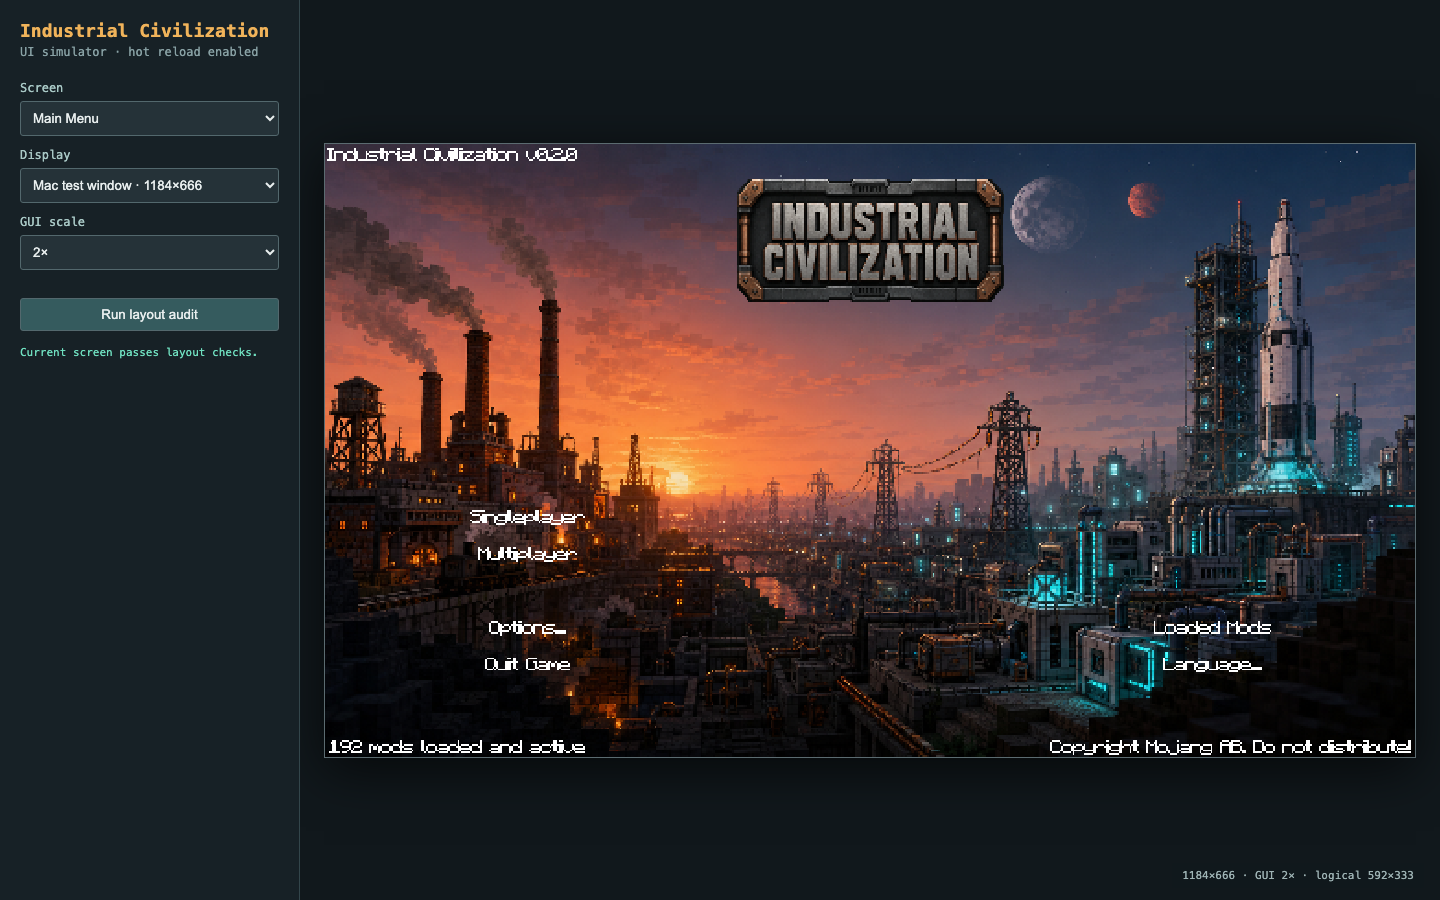
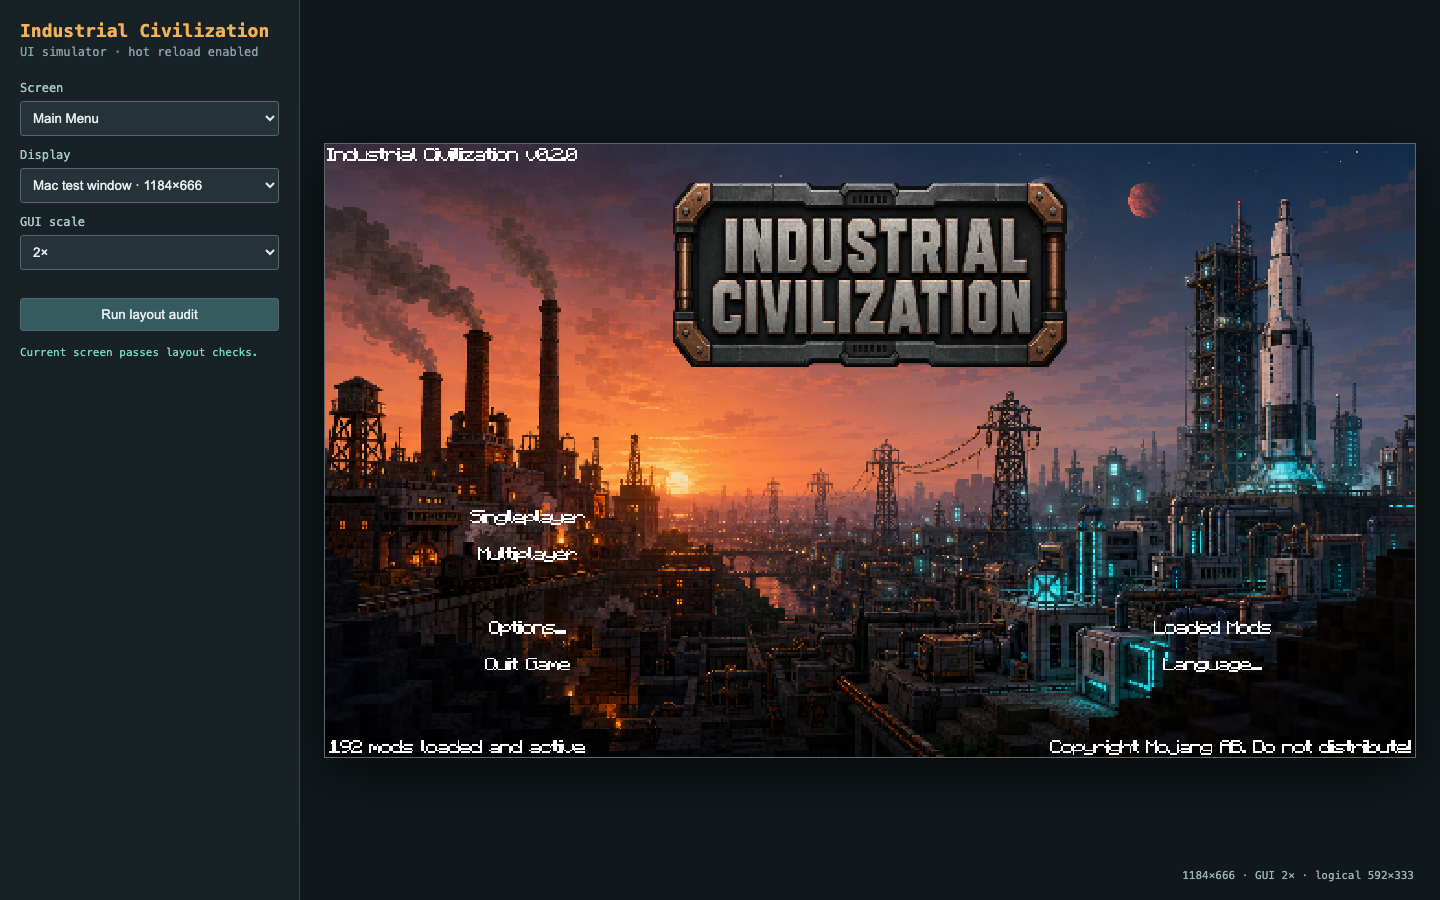
Scale title cards responsively

Changed region(s): [[0.4688, 0.1867, 0.75, 0.4356]]

diff --git a/tools/ui_simulator/app.js b/tools/ui_simulator/app.js
@@ -170,8 +170,23 @@ function anchoredBox(d, entry) {
   return {x, y, w: entry.width || 0, h: entry.height || 0};
 }
 
+function mainMenuTitleWidth(d) {
+  const proportional = Math.round(Math.max(0, d.width) * 0.40);
+  const widthLimit = Math.max(160, d.width - 32);
+  const heightLimit = Math.max(160, Math.max(80, d.height - 160) * 2);
+  return Math.max(160, Math.min(proportional, widthLimit, heightLimit));
+}
+
+function questHomeTitleWidth(backdrop) {
+  const proportional = Math.floor(Math.max(0, backdrop.w) * 0.65);
+  const widthLimit = Math.max(256, backdrop.w - 16);
+  const heightLimit = Math.max(256, Math.max(128, backdrop.h - 16) * 2);
+  return Math.max(256, Math.min(proportional, widthLimit, heightLimit));
+}
+
 function mainMenuLayout(d, auditScreen = "mainmenu") {
-  const title = anchoredBox(d, data.mainMenu.images.title);
+  const titleWidth = mainMenuTitleWidth(d);
+  const title = {x: (d.width - titleWidth) / 2, y: 14, w: titleWidth, h: titleWidth / 2};
   const versionLabel = data.mainMenu.labels.industrialcivilization;
   const version = {x: versionLabel.posX || 0, y: versionLabel.posY || 0,
     w: textWidth(versionLabel.text), h: 8};
@@ -252,9 +267,9 @@ function questHomeLayout(d, auditScreen = "questhome") {
   const content = {x: panel.x + 8, y: panel.y + 8, w: panel.w - 16, h: panel.h - 16};
   const buttonHeight = 32;
   const backdrop = {x: content.x, y: content.y, w: content.w, h: content.h - buttonHeight};
-  const settings = data.questHome || {anchorX: .5, anchorY: 0, offsetX: -128, offsetY: 0};
-  const title = {x: backdrop.x + backdrop.w * settings.anchorX + settings.offsetX,
-    y: backdrop.y + backdrop.h * settings.anchorY + settings.offsetY, w: 256, h: 128};
+  const titleWidth = questHomeTitleWidth(backdrop);
+  const title = {x: backdrop.x + (backdrop.w - titleWidth) / 2,
+    y: backdrop.y + (backdrop.h - titleWidth / 2) / 2, w: titleWidth, h: titleWidth / 2};
   if (!contained(backdrop, panel)) issue(auditScreen, "Better Questing home backdrop clips its panel", backdrop);
   if (!contained(title, backdrop)) issue(auditScreen, "Better Questing anchored title clips its backdrop", title);
   return {panel, content, backdrop, title, buttonHeight};

diff --git a/development/IndustrialCivilizationCore/src/main/java/com/industrialcivilization/core/IndustrialCivilizationCore.java b/development/IndustrialCivilizationCore/src/main/java/com/industrialcivilization/core/IndustrialCivilizationCore.java
@@ -4,6 +4,10 @@ import betterquesting.api.properties.NativeProps;
 import betterquesting.api.questing.IQuestLine;
 import betterquesting.client.gui2.GuiHome;
 import betterquesting.client.gui2.GuiQuestLines;
+import betterquesting.api2.client.gui.misc.GuiTransform;
+import betterquesting.api2.client.gui.panels.CanvasTextured;
+import betterquesting.api2.client.gui.panels.IGuiCanvas;
+import betterquesting.api2.client.gui.panels.IGuiPanel;
 import betterquesting.api2.client.gui.panels.lists.CanvasQuestLine;
 import betterquesting.handlers.SaveLoadHandler;
 import betterquesting.questing.QuestLineDatabase;
@@ -13,11 +17,14 @@ import net.minecraft.block.material.Material;
 import net.minecraft.init.Blocks;
 import net.minecraft.init.Items;
 import net.minecraft.client.Minecraft;
+import net.minecraft.client.gui.Gui;
 import net.minecraft.client.gui.GuiIngameMenu;
 import net.minecraft.client.gui.GuiButton;
+import net.minecraft.client.gui.GuiMainMenu;
 import net.minecraft.client.gui.advancements.GuiAdvancementTab;
 import net.minecraft.client.gui.advancements.GuiScreenAdvancements;
 import net.minecraft.client.resources.I18n;
+import net.minecraft.client.renderer.GlStateManager;
 import net.minecraft.client.renderer.block.model.ModelResourceLocation;
 import net.minecraft.client.settings.KeyBinding;
 import net.minecraft.creativetab.CreativeTabs;
@@ -91,8 +98,9 @@ public final class IndustrialCivilizationCore {
     @Mod.Instance(MODID)
     public static IndustrialCivilizationCore INSTANCE;
     public static final String QUEST_HOME_IMAGE = MODID + ":textures/gui/quest_home_v2.png";
+    public static final float QUEST_HOME_ANCHOR_Y = 0.5F;
     public static final int QUEST_HOME_OFFSET_X = -128;
-    public static final int QUEST_HOME_OFFSET_Y = 0;
+    public static final int QUEST_HOME_OFFSET_Y = -64;
     public static Logger LOGGER;
     public static final CreativeTabs CREATIVE_TAB = new CreativeTabs(MODID) {
         @Override
@@ -333,11 +341,16 @@ public final class IndustrialCivilizationCore {
 
         private static void migrateQuestHomeImage() {
             String current = QuestSettings.INSTANCE.getProperty(NativeProps.HOME_IMAGE);
+            float currentAnchorY = QuestSettings.INSTANCE.getProperty(NativeProps.HOME_ANC_Y);
             int currentOffsetX = QuestSettings.INSTANCE.getProperty(NativeProps.HOME_OFF_X);
             int currentOffsetY = QuestSettings.INSTANCE.getProperty(NativeProps.HOME_OFF_Y);
             boolean changed = false;
             if (!QUEST_HOME_IMAGE.equals(current)) {
                 QuestSettings.INSTANCE.setProperty(NativeProps.HOME_IMAGE, QUEST_HOME_IMAGE);
+                changed = true;
+            }
+            if (Float.compare(currentAnchorY, QUEST_HOME_ANCHOR_Y) != 0) {
+                QuestSettings.INSTANCE.setProperty(NativeProps.HOME_ANC_Y, QUEST_HOME_ANCHOR_Y);
                 changed = true;
             }
             if (currentOffsetX != QUEST_HOME_OFFSET_X) {
@@ -350,9 +363,9 @@ public final class IndustrialCivilizationCore {
             }
             if (changed) {
                 SaveLoadHandler.INSTANCE.markDirty();
-                LOGGER.info("Migrated Better Questing home layout from '{}',({}, {}) to '{}',({}, {})",
-                    current, currentOffsetX, currentOffsetY,
-                    QUEST_HOME_IMAGE, QUEST_HOME_OFFSET_X, QUEST_HOME_OFFSET_Y);
+                LOGGER.info("Migrated Better Questing home layout from '{}',({}, {}, {}) to '{}',({}, {}, {})",
+                    current, currentAnchorY, currentOffsetX, currentOffsetY,
+                    QUEST_HOME_IMAGE, QUEST_HOME_ANCHOR_Y, QUEST_HOME_OFFSET_X, QUEST_HOME_OFFSET_Y);
             }
         }
 
@@ -614,6 +627,8 @@ public final class IndustrialCivilizationCore {
         private static boolean keyBindingsChecked;
         private static net.minecraft.client.multiplayer.WorldClient terrainWarmupWorld;
         private static boolean terrainWarmupShown;
+        private static final ResourceLocation MAIN_MENU_LOGO = new ResourceLocation(
+            MODID, "textures/mainmenu/industrial_civilization_logo.png");
 
         @SubscribeEvent
         public static void registerModels(ModelRegistryEvent event) {
@@ -658,6 +673,61 @@ public final class IndustrialCivilizationCore {
                     artifact, 0,
                     new ModelResourceLocation(artifact.getRegistryName(), "inventory"));
             }
+        }
+
+        /** Draw the title responsively because Custom Main Menu only supports fixed image sizes. */
+        @SubscribeEvent(priority = EventPriority.LOWEST)
+        public static void drawResponsiveMainMenuTitle(GuiScreenEvent.DrawScreenEvent.Post event) {
+            if (!(event.getGui() instanceof GuiMainMenu)) return;
+            int width = GameplayRules.mainMenuTitleWidth(event.getGui().width, event.getGui().height);
+            int height = width / 2;
+            int x = (event.getGui().width - width) / 2;
+            int y = 14;
+            Minecraft.getMinecraft().getTextureManager().bindTexture(MAIN_MENU_LOGO);
+            GlStateManager.enableBlend();
+            GlStateManager.color(1.0F, 1.0F, 1.0F, 1.0F);
+            Gui.drawScaledCustomSizeModalRect(x, y, 0.0F, 0.0F, 512, 256,
+                width, height, 512.0F, 256.0F);
+        }
+
+        /**
+         * Better Questing fixes the home title at 256x128. Resize its deepest
+         * textured panel after initialization so large windows use their space,
+         * while retaining that native size at the minimum supported window.
+         */
+        @SubscribeEvent(priority = EventPriority.LOWEST)
+        public static void resizeAndCenterQuestHomeTitle(GuiScreenEvent.InitGuiEvent.Post event) {
+            if (!(event.getGui() instanceof GuiHome)) return;
+            IGuiPanel title = findQuestHomeTitle((GuiHome) event.getGui());
+            if (title == null || !(title.getTransform() instanceof GuiTransform)) {
+                LOGGER.warn("Could not locate Better Questing home title panel for responsive layout");
+                return;
+            }
+            GuiTransform transform = (GuiTransform) title.getTransform();
+            int backdropWidth = transform.getParent().getWidth();
+            int backdropHeight = transform.getParent().getHeight();
+            int width = GameplayRules.questHomeTitleWidth(backdropWidth, backdropHeight);
+            int height = width / 2;
+            transform.getAnchor().set(0.5F, 0.5F, 0.5F, 0.5F);
+            int left = -width / 2;
+            int top = -height / 2;
+            transform.getPadding().setPadding(left, top, -width - left, -height - top);
+        }
+
+        private static IGuiPanel findQuestHomeTitle(GuiHome home) {
+            for (IGuiPanel root : home.getChildren()) {
+                if (!(root instanceof IGuiCanvas)) continue;
+                for (IGuiPanel content : ((IGuiCanvas) root).getChildren()) {
+                    if (!(content instanceof IGuiCanvas)) continue;
+                    for (IGuiPanel backdrop : ((IGuiCanvas) content).getChildren()) {
+                        if (!(backdrop instanceof CanvasTextured) || !(backdrop instanceof IGuiCanvas)) continue;
+                        for (IGuiPanel child : ((IGuiCanvas) backdrop).getChildren()) {
+                            if (child instanceof CanvasTextured) return child;
+                        }
+                    }
+                }
+            }
+            return null;
         }
 
         /**

diff --git a/tools/static_validate.py b/tools/static_validate.py
@@ -355,8 +355,8 @@ quest_settings = quests["questSettings:10"]["betterquesting:10"]
 ok(quest_settings.get("home_image:8") == quest_home, "pack-owned Better Questing home image configured")
 ok(quest_settings.get("home_anchor_x:5") == 0.5, "Better Questing title uses centered horizontal anchor")
 ok(quest_settings.get("home_offset_x:3") == -128, "Better Questing 256px title is centered on anchor")
-ok(quest_settings.get("home_anchor_y:5") == 0.0 and quest_settings.get("home_offset_y:3") == 0,
-   "Better Questing title uses top vertical anchor")
+ok(quest_settings.get("home_anchor_y:5") == 0.5 and quest_settings.get("home_offset_y:3") == -64,
+   "Better Questing title uses centered vertical anchor")
 quest_home_file = ROOT / "resources/industrialcivilizationcore/textures/gui/quest_home_v2.png"
 ok(quest_home_file.is_file(), "Better Questing home image exists")
 if quest_home_file.is_file():
@@ -366,9 +366,12 @@ if quest_home_file.is_file():
     height = int.from_bytes(png[20:24], "big") if len(png) >= 24 else 0
     ok((width, height) == (512, 512), "Better Questing home atlas is 512x512")
 ok(quest_home in (ROOT / "tools/generate_objectives.py").read_text(), "quest generator preserves home image")
-ok("QUEST_HOME_IMAGE" in core_source and "QUEST_HOME_OFFSET_X = -128" in core_source
+ok("QUEST_HOME_IMAGE" in core_source and "QUEST_HOME_ANCHOR_Y = 0.5F" in core_source
+   and "QUEST_HOME_OFFSET_X = -128" in core_source and "QUEST_HOME_OFFSET_Y = -64" in core_source
    and "migrateQuestHomeImage" in core_source,
    "existing Better Questing worlds migrate to pack-owned home layout")
+ok("resizeAndCenterQuestHomeTitle" in core_source and "questHomeTitleWidth" in core_source,
+   "Better Questing title grows responsively and remains centered")
 ok("GuiIngameMenu" in core_source and "if (button.id == 5) advancements = button;" in core_source
    and "PresetGUIs.HOME" not in core_source,
    "pause-menu vanilla Advancements button and screen are restored")
@@ -393,6 +396,9 @@ ok("Industrial Civilization" in main_menu_text and "Tekkit 2" not in main_menu_t
    and main_menu.get("other", {}).get("background", {}).get("image")
        == "industrialcivilizationcore:textures/mainmenu/industrial_civilization_background.png",
    "main menu uses pack-owned Industrial Civilization branding and background")
+ok(not main_menu.get("images") and "drawResponsiveMainMenuTitle" in core_source
+   and "mainMenuTitleWidth" in core_source,
+   "first-party renderer scales the main-menu title responsively")
 ok("slice" not in main_menu_text.lower(),
    "main menu contains no internal development-slice terminology")
 ok("S:title=Industrial Civilization" in random_patches

diff --git a/tools/ui_simulator/audit.py b/tools/ui_simulator/audit.py
@@ -88,6 +88,7 @@ def capture(base_url: str, chrome: Path, profile: Path, output: Path) -> None:
     output.mkdir(parents=True, exist_ok=True)
     screens = {
         "main-menu-mac-window.png": "screen=mainmenu&display=1184x666&scale=2",
+        "main-menu-small-window.png": "screen=mainmenu&display=854x480&scale=2",
         "pause-menu-small-window.png": "screen=pause&display=854x480&scale=2",
         "machine-programmable-assembler.png": "screen=machine&machine=programmable_assembler&display=1184x666&scale=2",
         "machine-fusion-core.png": "screen=machine&machine=fusion_research_core&display=854x480&scale=2",
@@ -95,6 +96,7 @@ def capture(base_url: str, chrome: Path, profile: Path, output: Path) -> None:
         "terrain-warmup-small-window.png": "screen=warmup&display=854x480&scale=2",
         "ai-credits-small-window.png": "screen=credits&display=854x480&scale=2",
         "quest-home-small-window.png": "screen=questhome&display=854x480&scale=2",
+        "quest-home-mac-window.png": "screen=questhome&display=1184x666&scale=2",
         "quest-canvas-small-window.png": "screen=quests&display=854x480&scale=2&quest-line=0",
         "advancements-small-window.png": "screen=advancements&display=854x480&scale=2",
         "space-map-small-window.png": "screen=spacemap&display=854x480&scale=2",

diff --git a/development/IndustrialCivilizationCore/src/main/java/com/industrialcivilization/core/GameplayRules.java b/development/IndustrialCivilizationCore/src/main/java/com/industrialcivilization/core/GameplayRules.java
@@ -2,6 +2,20 @@ package com.industrialcivilization.core;
 
 /** Pure deterministic rules shared with the headless mechanics test suite. */
 public final class GameplayRules {
+    public static int mainMenuTitleWidth(int screenWidth, int screenHeight) {
+        int proportional = Math.round(Math.max(0, screenWidth) * 0.40F);
+        int widthLimit = Math.max(160, screenWidth - 32);
+        int heightLimit = Math.max(160, Math.max(80, screenHeight - 160) * 2);
+        return Math.max(160, Math.min(proportional, Math.min(widthLimit, heightLimit)));
+    }
+
+    public static int questHomeTitleWidth(int backdropWidth, int backdropHeight) {
+        int proportional = (int) (Math.max(0, backdropWidth) * 0.65F);
+        int widthLimit = Math.max(256, backdropWidth - 16);
+        int heightLimit = Math.max(256, Math.max(128, backdropHeight - 16) * 2);
+        return Math.max(256, Math.min(proportional, Math.min(widthLimit, heightLimit)));
+    }
+
     public static float questMinimumZoom(int viewportWidth, int viewportHeight,
             int backgroundSize) {
         if (backgroundSize <= 0) return 1.0F;

diff --git a/development/IndustrialCivilizationCore/src/test/java/com/industrialcivilization/core/GameplayRulesTest.java b/development/IndustrialCivilizationCore/src/test/java/com/industrialcivilization/core/GameplayRulesTest.java
@@ -4,6 +4,21 @@ import org.junit.Test;
 import static org.junit.Assert.*;
 
 public class GameplayRulesTest {
+    @Test public void mainMenuTitleKeepsSmallWindowMinimum() {
+        assertEquals(160, GameplayRules.mainMenuTitleWidth(427, 240));
+    }
+    @Test public void mainMenuTitleGrowsOnLargeWindows() {
+        assertEquals(237, GameplayRules.mainMenuTitleWidth(592, 333));
+        assertEquals(384, GameplayRules.mainMenuTitleWidth(960, 540));
+    }
+    @Test public void questHomeTitleKeepsSmallWindowMinimum() {
+        assertEquals(256, GameplayRules.questHomeTitleWidth(395, 176));
+    }
+    @Test public void questHomeTitleGrowsOnLargeWindows() {
+        assertEquals(364, GameplayRules.questHomeTitleWidth(560, 269));
+        assertEquals(603, GameplayRules.questHomeTitleWidth(928, 476));
+    }
+
     @Test public void questZoomStopsWhenBackgroundReachesViewportEdges() {
         assertEquals(0.75F, GameplayRules.questMinimumZoom(384, 300, 512), 0.0001F);
         assertEquals(1.25F, GameplayRules.questMinimumZoom(640, 400, 512), 0.0001F);

diff --git a/tools/validate_runtime_content.py b/tools/validate_runtime_content.py
@@ -108,6 +108,12 @@ check(all(title_logo.getpixel(point)[3] >= 250 for point in ((60, 20), (30, 128)
 check(title_logo.getpixel((256, 128))[3] == 255,
       "main-menu title card preserves its opaque plaque interior")
 
+gameplay_rules = (JAVA / "GameplayRules.java").read_text()
+check("mainMenuTitleWidth" in gameplay_rules and "questHomeTitleWidth" in gameplay_rules,
+      "title cards use deterministic responsive sizing rules")
+check("resizeAndCenterQuestHomeTitle" in (JAVA / "IndustrialCivilizationCore.java").read_text(),
+      "Better Questing title receives its responsive centered runtime layout")
+
 quest_home = Image.open(ROOT / "resources/industrialcivilizationcore/textures/gui/quest_home_v2.png").convert("RGBA")
 check(quest_home.size == (512, 512), "Better Questing home atlas remains 512x512")
 check(quest_home.getpixel((0, 0))[3] == 255,

diff --git a/tools/generate_objectives.py b/tools/generate_objectives.py
@@ -436,7 +436,7 @@ def main():
         "questSettings:10": {"betterquesting:10": {
             "livesdef:3": 3,
             "pack_name:8": "Industrial Civilization — Phase 2",
-            "home_anchor_y:5": 0.0,
+            "home_anchor_y:5": 0.5,
             "livesmax:3": 10,
             "home_anchor_x:5": 0.5,
             "editmode:1": 0,
@@ -445,7 +445,7 @@ def main():
             "party_enable:1": 1,
             "pack_version:3": 7,
             "home_offset_x:3": -128,
-            "home_offset_y:3": 0,
+            "home_offset_y:3": -64,
         }},
     }
     OUT.parent.mkdir(parents=True, exist_ok=True)
